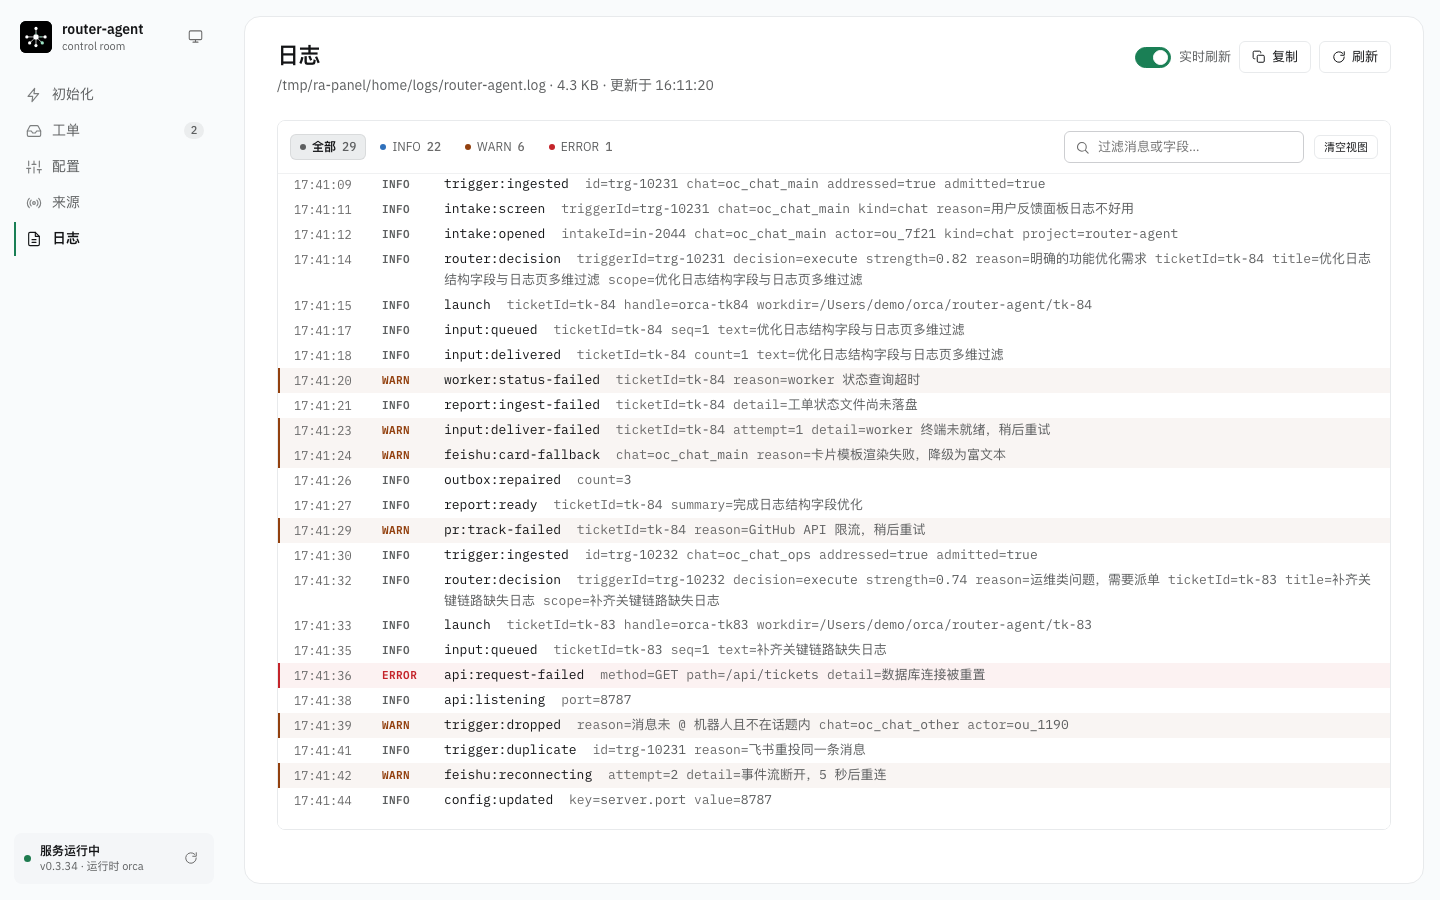
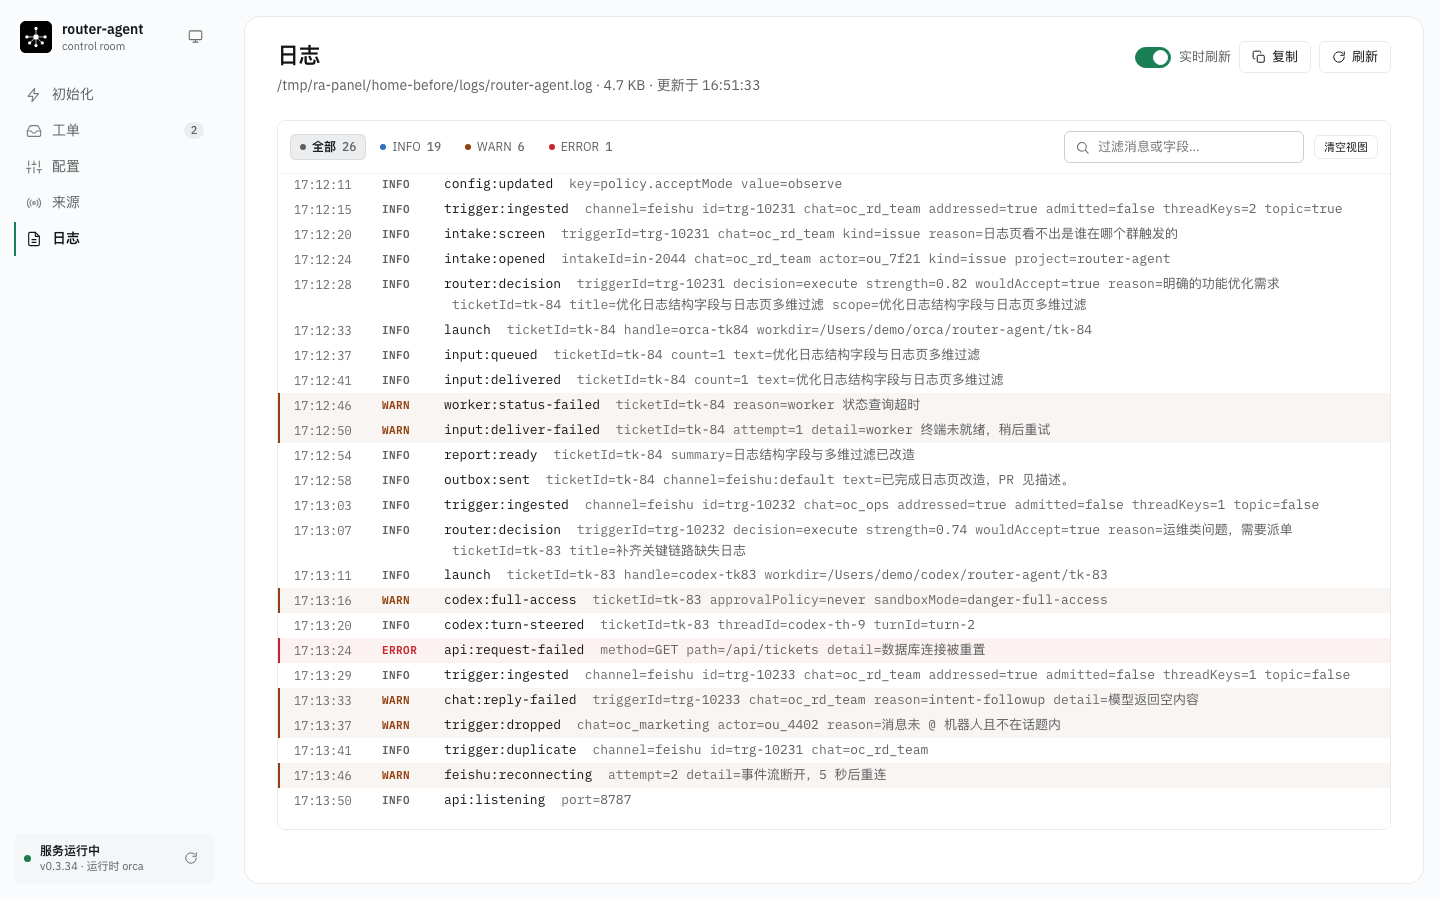
docs: 补日志体系维度、日志页形态与改版前后对比
OPERATIONS.md 写清日志行的新字段、类别口径、维度由谁补，以及日志页的新形态；
AGENTS.md 把「维度要带齐」写进日志规范；并补上日志页的改版前后对比截图。

diff --git a/docs/OPERATIONS.md b/docs/OPERATIONS.md
@@ -38,7 +38,7 @@ Router 不做对话，只在必要时说话：
 
 - **初始化**：只放启动必需的五件事——LLM Provider、运行时、项目、渠道接入、监控群，顶部有完成度清单；LLM Provider 的 Base URL / 模型 / API Key 三项必填（密钥只写入 `config.yaml`，保存后不回显），可选 OpenAI / Anthropic 两种接口协议，并支持从 Claude Code、CCSwitch、Pi、OpenCode、Magpie 的本地 Provider 配置一键导入；渠道那一步走渠道注册表：先选渠道（当前内置飞书），再填它的接入项（应用凭据 / 机器人与授权 / 群与绑定 + 接收私聊），App Secret 与授权也直接在本页完成（固定 `~/.router-agent-lark` profile）。新增渠道只需补一份描述与表单，初始化页不用改。逐项说明见 [README · 快速开始](../README.md#快速开始)；运行时的卡片检测与安装引导见 [RUNTIME.md](RUNTIME.md)。
 - **工单**：按阶段分组 + 计数、关键字搜索（标题 / 工单号 / 仓库 / PR）、自动刷新开关与手动刷新；详情页有阶段、派工、PR、授权范围、上报时间线（含完整回复与 `humanAction`）、投递记录，可直接投递 follow-up 或停止工单。**人工停止工单会立即回收对应的 workspace**（先停 worker，再删 worktree）；而闲置超时、PR 合并等**自动关单只停 worker，workspace 会保留一段时间（默认 24 小时）后由定时任务回收**，也可以随时在「清理工作区」里手动回收。页头还有「清理工作区」入口：按 Worker 运行时分组列出仍在磁盘上的工单工作区，可勾选多个工单批量清理。清理动作按工单各自的运行时执行——Orca 关闭 worktree 并删除目录，Claude Code 删除 `claude agents` 视图与 worktree 目录，ACP 直接删除 worktree 目录；在办工单与有未提交改动的目录会被跳过，并在结果里说明原因。
-- **日志**：直接看 `~/.router-agent/logs/router-agent.log`，默认 2 秒增量拉取（只读游标之后的新字节，不重复读整个文件），可开「实时刷新」；按 INFO / WARN / ERROR 过滤、按消息或字段搜索、复制当前结果；停在底部时自动跟随新日志，往上翻后不再打断，点「最新」回到底部。文件不存在或还没写入时给出空状态提示。
+- **日志**：直接看 `~/.router-agent/logs/router-agent.log`，默认 2 秒增量拉取（只读游标之后的新字节，不重复读整个文件），可开「实时刷新」。日志页是一张**表**：一行一条事件，列依次是「时间 / 级别 / 类别 / 事件 / 群 / 发起人 / 运行时 / 工单 / 详情」——群名、发起人（用户还是机器人）、运行时、消息还是事件都不用再从原始字段里猜。点事件名展开该行，能看到这条事件的全部字段与原始值。筛选按「级别 + 类别 + 域 + 动作 + 群 + 发起人 + 运行时 + 工单 + 追踪 ID + 关键字」多维取交集，每个维度都带命中条数；复制当前结果；停在底部时自动跟随新日志，往上翻后不再打断，点「最新」回到底部。文件不存在或还没写入时给出空状态提示。
 - **配置**：按「LLM Provider / 运行时配置 / 渠道配置 / 项目配置 / 消息准入 / 其他设置」六层分组，每层再拆成可折叠的配置块。分组名与初始化页用词一致，按「先能跑起来、再看细节」排列：**LLM Provider**（模型接入 / 研判预算 / 人格 / 规范文件 / 会话复用）、**运行时配置**（Worker 运行时卡片 + 并发上限）、**渠道配置**（先选渠道，当前内置飞书，再配该渠道自己的「应用凭据 / 机器人与授权 / 接收范围 / 群与绑定 / 消息处理」，低频的「高级」项默认折叠）、**项目配置**（项目清单）、**消息准入**（接单方式 / 谁能叫醒机器人，立即生效）、**其他设置**（进展同步 / 闲置治理 / 工作区回收 / 服务与门禁）。渠道不是写死的分支：面板从 `GET /api/channels` 拿内核已注册的通道，按 id 与前端的渠道描述（`src/web/client/channels.ts`）合并，新增渠道只要再加一份描述与表单。每个配置块标注生效方式（立即生效 / 重启生效 / 部分立即生效），改动逐项标脏，保存前做前端 + 后端双重校验，保存后写回 `config.yaml`。「Worker 运行时」是与初始化页相同的卡片平铺组件（`orca` / `claude-code` / `codex-app` / `acp` / `acp-*`，卡片标题是首字母大写的运行时名 `Orca` / `Claude Code` / `Codex App`），已有原生运行时替代品的 `acp-claude` / `acp-codex` 不再出现在可选列表里（当前正选中的仍保留，老配置继续可用），可检测安装状态、分别跳转官方文档安装 CLI 或由 ra 安装 ACP 扩展，并做 ACP 握手试启动；项目清单按运行时隔离，切换运行时后项目清单会切换到该运行时自己的一套（清单里的 `repo` 统一是本地仓库绝对路径，Orca 侧由适配器翻译成 `path:` 选择器并在派工前自动登记成 Orca 项目）；「扫描本地项目」读本机 Claude Code / Codex / OpenCode 的会话日志列出候选目录（worktree 归并到主仓库、临时目录与非 Git 目录剔除，默认勾选最近活跃的 5 个），「添加本地项目」支持系统目录选择并自动识别 Git / 分支，「添加 Git 项目」支持填写 ssh / http(s) 地址后自动 clone 并登记。群绑定的项目只能从当前清单里选，分支自动跟随项目的默认分支，不能单独自定义。左侧导航随滚动高亮当前分组；顶部搜索框可按名称 / 路径筛配置项。
 - **来源**：服务状态、监控群、接收范围概览。
 
@@ -60,22 +60,32 @@ Router 不做对话，只在必要时说话：
 | `level` | `info` / `warn` / `error` |
 | `domain` | 事件域，事件名的第一段（`trigger:ingested` → `trigger`） |
 | `event` | 事件动作，事件名冒号后的部分（`trigger:ingested` → `ingested`） |
+| `category` | 类别：`message`（用户发来的消息及其处理）/ `action`（Router / Worker 对外做过的动作）/ `event`（内部状态变化） |
 | `message` | 完整事件名，保留是为了兼容 `grep '"message":"trigger:'` 这类用法 |
 | `trace` | 链路 ID：按 `ticketId` → `triggerId` → `intakeId` → `inputId` → `handle` → `threadId` → `id` → `chat` 取第一个存在的可定位字段，把同一条链路的日志串起来 |
+| `chat` / `chatName` | 群 / 会话 ID 与群名 |
+| `actor` / `actorName` / `actorType` | 发起人 ID、名字与类型（`user` 用户 / `bot` 机器人 / `system` Router 自己） |
+| `runtime` | 运行时：`orca` / `codex-app` / `claude-code` / `t3code` / `herdr` |
 | 其余字段 | 业务字段，平铺在同一层 |
 
-`domain` / `event` / `trace` 由 `createLogger` 自动补齐，业务代码不用自己写；旧日志没有这三个字段时，面板读日志时会按同一套规则补出来，所以历史日志照样能按维度过滤。
+`domain` / `event` / `category` / `trace` 由 `createLogger` 自动补齐，业务代码不用自己写；旧日志没有这些字段时，面板读日志时会按同一套规则补出来，所以历史日志照样能按维度过滤。
+
+**维度由谁补**：
+
+- 消息链路（`trigger:*` / `intake:*` / `router:decision` / `chat:*`）在写日志时带上群、群名、发起人与发起人类型——「谁在哪个群说的」不用再回查别的地方。
+- 工单链路（带 `ticketId` 的日志）由 `RouterService` 统一补上群、发起人与运行时；运行时适配器自己的日志也按工单补齐，不用每个调用点手写。
+- 运行时适配器（`packages/runtime-*`）统一带上 `runtime`——「这是 Orca 还是 Codex 在动」一眼可辨。
 
 | 事件 | 来源 | 关键字段 | 说明 |
 |-|-|-|-|
 | `feishu:ready` | 事件消费者 | — | 事件流已连上 |
-| `trigger:ingested` | Source | `id` `chat` `addressed` `admitted` `threadKeys` `topic` | 用户消息进入系统；`topic=true` 表示事件带了话题 ID（omt_）；`admitted=true` 表示没 @ 但因话题已绑定在办工单被放行（tk-59） |
-| `trigger:dropped` | Source | `reason` `chat` `actor` | 收到但被过滤 |
+| `trigger:ingested` | Source | `id` `chat` `chatName` `actor` `actorName` `actorType` `addressed` `admitted` `threadKeys` `topic` | 用户消息进入系统；`topic=true` 表示事件带了话题 ID（omt_）；`admitted=true` 表示没 @ 但因话题已绑定在办工单被放行（tk-59） |
+| `trigger:dropped` | Source | `reason` `chat` `chatName` `actor` `actorName` `actorType` | 收到但被过滤 |
 | `trigger:ingest-failed` | Channel Ingress | `channel` `detail` | 富化或入库抛错，消息没能进入系统；重试依赖飞书重投兜底 |
 | `trigger:admitted-unaddressed` | CLI | `chat` `actor` `keys` | 已绑定工单的话题里，名单内成员没 @ 机器人也放行处理（tk-59） |
-| `intake:screen` | AgentLoop | `triggerId` `chat` `kind` `reason` | 需求识别初筛结论：chat / question / issue（`reason` 已截断到 120 字） |
+| `intake:screen` | AgentLoop | `triggerId` `chat` `chatName` `actor` `actorName` `actorType` `kind` `reason` | 需求识别初筛结论：chat / question / issue（`reason` 已截断到 120 字） |
 | `intake:screen-failed` / `intake:screen-invalid` | AgentLoop | `triggerId` `detail` / `triggerId` | 初筛模型失败或输出不合法；消息按原准入规则继续处理 |
-| `intake:opened` | AgentLoop | `intakeId` `chat` `actor` `kind` `project` | 为一条疑似问题创建需求识别会话 |
+| `intake:opened` | AgentLoop | `intakeId` `chat` `chatName` `actor` `actorName` `actorType` `kind` `project` | 为一条疑似问题创建需求识别会话 |
 | `intake:clarify` | AgentLoop | `intakeId` `questions` | 分析 Agent 发起追问 |
 | `intake:answered` | AgentLoop | `intakeId` `chat` | 分析 Agent 直接给出结论，会话结束，不产出需求单 |
 | `intake:ready` | AgentLoop | `intakeId` `chat` `title` `approvers` | 需求单整理完成，已 @管理员终审 |
@@ -94,8 +104,8 @@ Router 不做对话，只在必要时说话：
 | `thread:resolved` | Engine | `threadId` `rawThreadId` `triggerId` `source` | 消息自带线程标识没对上，靠别名收敛到了已有线程（排查「消息没进工单」先看这条） |
 | `thread:backfilled` / `thread:backfill-failed` | CLI | `filled` `failed` / `batch` `code` `detail` | `ra migrate threads --apply` 的回填结果 |
 | `thread:backfill-incomplete` | CLI | `total` `pending` | 回填后仍有线程缺话题 ID 别名，命令以非零退出 |
-| `router:decision` | Engine | `triggerId` `decision` `strength` `reason` `ticketId` `title` `scope` | Router 的研判结论 |
-| `launch` | Service | `ticketId` `handle` `workdir` | 派工到 Orca worktree |
+| `router:decision` | Engine | `triggerId` `chat` `chatName` `actor` `actorName` `actorType` `decision` `strength` `reason` `ticketId` `title` `scope` | Router 的研判结论 |
+| `launch` | Service | `ticketId` `runtime` `chat` `actor` `handle` `workdir` | 派工到 Orca worktree |
 | `launch:queued` | Service | `maxWorkers` `capacity` `waiting` `ticketIds` | 并发已满，工单排队等待派工 |
 | `launch:queued-input` | Service | `ticketId` `pending` `maxWorkers` | 有新输入但并发满，暂不重建 worker |
 | `launch:failed` | Service | `ticketId` `title` `repo` `branch` `attempt` `reason` | 派工失败，已转人工并通知发起人 |
@@ -315,12 +325,33 @@ grep '"message":"trigger:' ~/.router-agent/logs/router-agent.log
 | 维度 | 说明 |
 |-|-|
 | 级别 | 全部 / INFO / WARN / ERROR / TEXT（TEXT 是非 JSON 的旧行） |
+| 类别 | 消息 / 事件 / 动作，按 `category` 过滤 |
 | 域 | 事件域，按 `domain` 过滤；下拉里带每条链路的条数 |
 | 动作 | 事件动作，按 `event` 过滤；跟着选中的域级联，只列该域里出现的动作 |
-| 追踪 | 链路 ID，按 `trace` 过滤；选一个工单 ID 就能只看这条链路上的日志 |
+| 群 | 按 `chat` 过滤，下拉里显示群名 |
+| 发起人 | 按 `actor` 过滤，下拉里显示名字 |
+| 运行时 | 按 `runtime` 过滤（Orca / Codex App / …） |
+| 工单 | 按 `ticketId` 过滤 |
+| 追踪 | 链路 ID，按 `trace` 过滤；选一个工单 ID 就能只看这条链路的日志 |
 | 关键字 | 命中事件名、维度与任一业务字段 |
 
 各维度上的计数是**分面计数**：只受其它维度影响，不受自身影响——选中 `tk-84` 后，级别上的「全部」是这条链路的条数，而不是缓冲区总数。
+
+带 `ticketId` 的事件（`launch` / `input:*` / `worker:*` / `report:*` / `cleanup:*` / `retention:*` 等）由 `RouterService` 自动补上 `runtime`、群与发起人；运行时适配器写的日志（`orca:*` / `codex:*` / `claude:*` / `herdr:*` / `t3code:*`）自动补上 `runtime`。这两类补齐由日志器统一完成，调用点只写自己知道的事。
+
+#### 日志页改版前后对比
+
+同一场景、同一视口（1440×900）、同一主题、同一批事件。基线是 `origin/main`，改动是本工单。
+
+| | 改版前 | 改版后 |
+|-|-|-|
+| 日志页形态 | 一行行原始字段，维度全挤在文本里<br>![改版前的日志页](assets/tk-84/before-logs-light.png) | **一张表**：时间 / 级别 / 类别 / 事件 / 群 / 发起人 / 运行时 / 工单 / 详情<br>![改版后的日志页](assets/tk-84/after-logs-light.png) |
+| 看得见的维度 | 群是 `oc_rd_team`，发起人是 `ou_7f21`，看不出是用户还是机器人，也看不出是 Orca 还是 Codex | 群显示「研发三组」，发起人显示「林薇 · 用户」，运行时显示 `orca` / `codex-app` |
+| 消息还是事件 | 只能从事件名猜 | 「类别」列直接给「消息 / 事件 / 动作」 |
+| 字段明细 | 详情全部挤在一行里，长字段被截断 | 点事件名展开这一行，标签右对齐、值左对齐，全部字段与原始值都能看<br>![展开后的完整字段](assets/tk-84/after-logs-expanded.png) |
+| 筛选维度 | 级别 + 关键字 | 级别 / 类别 / 域 / 动作 / 群 / 发起人 / 运行时 / 工单 / 追踪 ID / 关键字，维度之间取交集<br>![按群筛选](assets/tk-84/after-logs-filter-chat.png) |
+
+深色主题的同场景对比见 [assets/tk-84](assets/tk-84/README.md)。
 
 ### 智能问题排查助手
 

diff --git a/AGENTS.md b/AGENTS.md
@@ -84,11 +84,13 @@ core  ←  infra  ←  runtime / channel  ←  src/
 
 ### 格式
 
-- 服务日志一行一个 JSON：`at`（ISO 时间）/ `level` / `domain` / `event` / `message` / `trace`（链路 ID）+ 业务字段，由 `src/cli/index.ts` 的 `createLogger` 统一写入 `<RA_HOME>/logs/router-agent.log`；`domain` / `event` / `trace` 由日志实现按事件名与业务字段自动补齐，业务代码不用自己写。
+- 服务日志一行一个 JSON：`at`（ISO 时间）/ `level` / `domain` / `event` / `category` / `message` / `trace`（链路 ID）+ 维度字段（`chat` / `chatName` / `actor` / `actorName` / `actorType` / `runtime`）+ 业务字段，由 `src/cli/index.ts` 的 `createLogger` 统一写入 `<RA_HOME>/logs/router-agent.log`；`domain` / `event` / `category` / `trace` 由日志实现按事件名与业务字段自动补齐，业务代码不用自己写。
+- `category` 分三类：`message`（用户发来的消息及其处理）/ `action`（Router / Worker 对外做过的动作）/ `event`（内部状态变化）。按事件域推导，特殊事件可用 `category` 字段显式覆盖。
 - `message` 用 `域:动作` 的 kebab-case，例如 `trigger:ingested`、`config:parse-failed`。常用域：`feishu` / `chats` / `trigger` / `loop` / `decision` / `chat` / `session` / `config` / `api` / `ticket` / `outbox` / `effect` / `worker` / `launch` / `input` / `report` / `progress` / `pr` / `retention` / `recover`。
 - `message` 只放事件名，错误详情、stderr 摘要等文本一律用 `detail` 字段；`createLogger` 会把业务字段里的 `message` 自动改写成 `detail`，事件名不会被冲掉。
 - 业务字段**平铺**在同一层，不要塞 `payload` / `data` 嵌套对象；长文本用 `preview()`（`packages/core/src/events.ts`）截断。
 - 每个事件至少带一个可定位字段：`triggerId` / `ticketId` / `inputId` / `key` / `chat` / `path` / `handle`。同一条链路上的事件用同一个 ID 串起来，串不起来就是漏了字段。
+- **能回答「谁在哪个群、这是用户还是机器人、是哪个运行时、这是消息还是事件」的维度要带齐**：写消息链路的事件用 `messageContext(trigger)`（`packages/core/src/events.ts`）补 `chat` / `chatName` / `actor` / `actorName` / `actorType`；写工单链路的事件带 `ticketId`，`RouterService` 与运行时适配器会按工单自动补群、发起人与 `runtime`，不用每个调用点手写。
 
 ### 级别
 
@@ -124,7 +126,7 @@ ra logs --follow                         # 实时跟随
 grep '"message":"trigger:' ~/.router-agent/logs/router-agent.log
 ```
 
-面板「日志」页支持按级别 / 域 / 动作 / 追踪 ID / 关键字多维过滤；读文件实现见 `src/router/log-tail.ts`，过滤逻辑见 `src/web/client/log-filters.ts`。
+面板「日志」页是一张表：一行一条事件，列为「时间 / 级别 / 类别 / 事件 / 群 / 发起人 / 运行时 / 工单 / 详情」，点事件名展开看全部字段；支持按级别 / 类别 / 域 / 动作 / 群 / 发起人 / 运行时 / 工单 / 追踪 ID / 关键字多维过滤。读文件实现见 `src/router/log-tail.ts`，过滤逻辑见 `src/web/client/log-filters.ts`。
 
 ## 7. 代码、提交与交付
 

diff --git a/docs/assets/tk-84/README.md b/docs/assets/tk-84/README.md
@@ -1,16 +1,21 @@
-# 日志页多维过滤 · 界面 Before / After
+# 日志体系改造 · 界面 Before / After
 
 同一场景（面板「日志」页读同一条日志文件）、同一视口（1440×900）、同一主题（浅色 / 深色各一组）。
 
-基线版本是 `main`（含 tk-12 的排查助手重构），改动版本是本分支合并 `main` 之后的代码。
+基线版本是 `origin/main`（e4cdee0，含 tk-12 的排查助手重构），改动版本是本分支。
 
 | 截图 | 说明 |
 |-|-|
-| `before-logs-light.png` | 改造前（浅色）：工具栏只有级别筛选与关键字搜索，看不出事件属于哪个域、也串不出同一条链路 |
-| `after-logs-light.png` | 改造后（浅色）：工具栏多出「域 / 动作 / 追踪」三个维度，与级别、关键字取交集 |
+| `before-logs-light.png` | 改造前（浅色）：日志是一行行原始字段，看不出「哪个群、谁触发的、用户还是机器人、Orca 还是 Codex、消息还是事件」 |
+| `after-logs-light.png` | 改造后（浅色）：日志是一张表，列为「时间 / 级别 / 类别 / 事件 / 群 / 发起人 / 运行时 / 工单 / 详情」 |
 | `before-logs-dark.png` | 改造前（深色）：同场景的深色基线 |
 | `after-logs-dark.png` | 改造后（深色）：同场景的深色改动版 |
-| `after-logs-filter-trace.png` | 改造后：追踪选 `tk-84`，只剩这条工单链路上的 9 条日志；级别计数同步收敛为该链路的条数 |
+| `after-logs-expanded.png` | 改造后：点事件名展开这一行，标签右对齐、值左对齐，能看到该事件的全部字段与原始值 |
+| `after-logs-filter-chat.png` | 改造后：按「群 = 研发三组」筛选，维度菜单里显示群名而不是群 ID |
+| `after-logs-filter-chat-category.png` | 改造后：「群 + 类别 = 消息」两级筛选，只剩该群里的用户消息 |
+
+两张日志文件内容完全一致（同一批事件、同一组时间戳）：基线文件按 `main` 的日志格式写，改动文件按新结构写，
+这样 Before / After 比的是「日志体系 + 面板」的差别，而不是两批不同的数据。
 
 截图取自真实构建产物（`pnpm build:web`）与真实日志读取实现（`readLogs`），
-日志文件内容由服务日志实现（`createLogger`）写出，不含真实用户数据与凭据。
+改动版日志文件由服务日志实现（`createLogger`）写出，不含真实用户数据与凭据。
